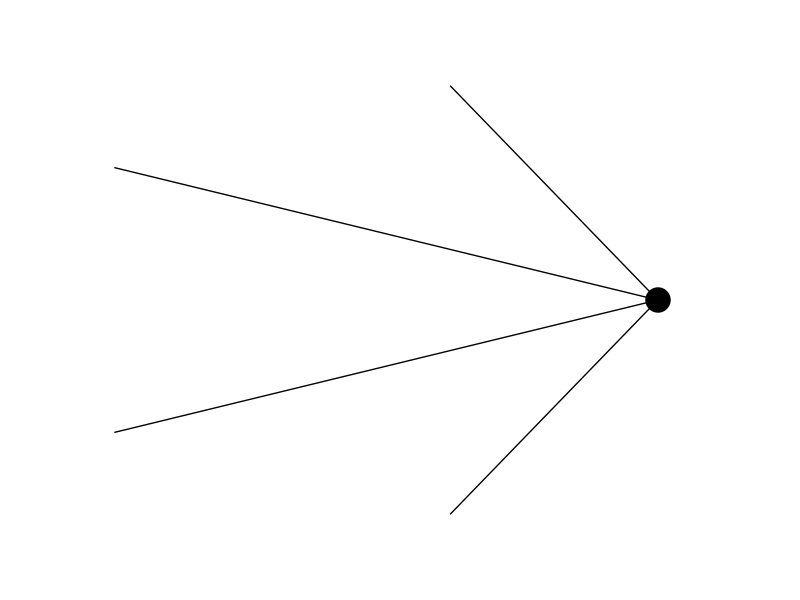
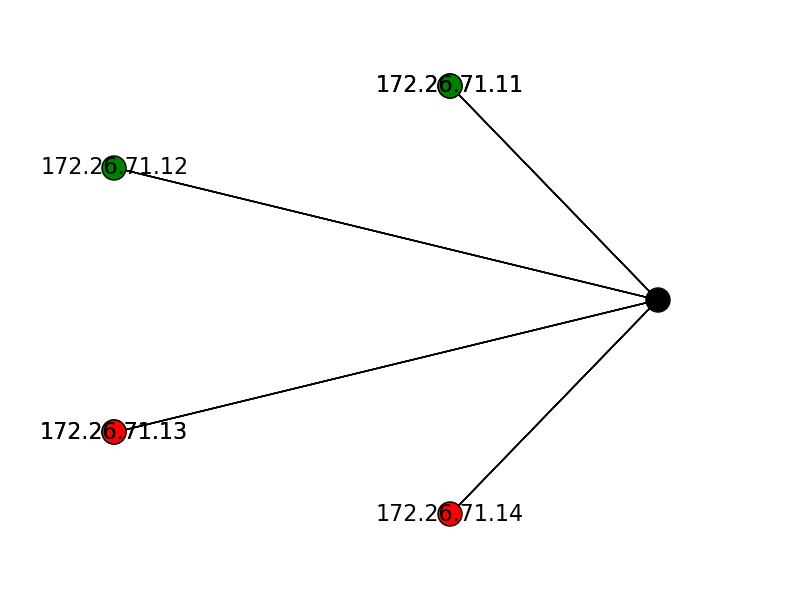
Now have info from db appearing on dashboard

diff --git a/FlaskApp/FlaskApp/templates/main.html b/FlaskApp/FlaskApp/templates/main.html
@@ -22,10 +22,34 @@
       	  setTimeout("timedRefresh(1000)", timeoutP);
       	};
       };
+
+      /*function showData(str) {
+      	if (str == "") {
+      		document.getElementById("txtHint").innerHTML = "";
+      		return;
+      	} else {
+      		if (window.XMLHttpRequest) {
+      			xmlhttp = new XMLHttpRequest();
+      		} else {
+      			xmlhttp = new ActiveXObject("Microsoft.XMLHTTP");
+      		}
+      	    xmlhttp.onreadystatechange = function() {
+      	  	  if (xmlhttp.readyState == 4 && xmlhttp.status == 200) {
+      	  		document.getElementById("txtHint").innerHTML = xmlhttp.responseText;
+      	  	}
+      	  };
+      	  xmlhttp.open("GET", "{{ url_for('static', filename='getdata.php') }}" + '?q=' + str + '?t=' + new Date().getTime(), true);
+      	  xmlhttp.send();
+      	}
+      }*/
     </script>
 
   </head>
   <body onload="JavaScript:timedRefresh(1000);">
   	<canvas id="x" width="800" height="600"></canvas>
+  	<div>
+  	  {% block body %}
+  	  {% endblock %}
+  	</div>
   </body>
 </html>

diff --git a/FlaskApp/FlaskApp/templates/node_data.html b/FlaskApp/FlaskApp/templates/node_data.html
@@ -1,0 +1,22 @@
+{% extends "main.html" %}
+{% block body%}
+    <table style="width:100%">
+     <tr>
+       <th>ID</th>
+       <th>Hostname</th>
+       <th>MAC Address</th>
+       <th>IP Address</th>
+       <th>OS</th>
+       <th>OS Version</th>
+       <th>OS Type</th>
+       <th>OS Accuracy</th>
+     </tr>
+     {% for i in data %}
+       <tr>
+       {% for x in i %}
+         <td>{{x}}</td>
+       {% endfor %}
+       </tr>
+     {% endfor %}
+    </table>
+{% endblock %}

diff --git a/FlaskApp/FlaskApp/templates/getdata.php b/FlaskApp/FlaskApp/templates/getdata.php
@@ -1,0 +1,47 @@
+<?php
+$q = intval($_GET['q']);
+
+$con = mysqli_connect('localhost','root','password','discover')
+if (!$con){
+	die('Could not connect: ' . mysqli_error($con));
+}
+
+#mysqli_select_db($con, "discover");
+$sql="SELECT * FROM nodes WHERE OS = '".$q."'";
+$result = mysqli_query($con,$sql);
+#
+#echo $result;
+
+echo "<table>
+<tr>
+<th>Id</th>
+<th>Hostname</th>
+<th>MAC_Addr</th>
+<th>IP_Addr</th>
+<th>OS</th>
+<th>OS_Vrs</th>
+<th>OS_Type</th>
+<th>OS_Acc</th>
+</tr>";
+echo "</table>"
+if ($result->num_rows > 0){
+	#while($row = mysqli_fetch_array($result)){
+		#echo "<tr>";
+		#echo "<td>" . $row['Id'] . "</td>";
+		#echo "<td>" . $row['Hostname'] . "</td>";
+		#echo "<td>" . $row['MAC_Addr'] . "</td>";
+		#echo "<td>" . $row['IP_Addr'] . "</td>";
+		#echo "<td>" . $row['OS'] . "</td>";
+		#echo "<td>" . $row['OS_Vrs'] . "</td>";
+		#echo "<td>" . $row['OS_Type'] . "</td>";
+		#echo "<td>" . $row['OS_Acc'] . "</td>";
+		#echo "</tr>";
+	#}
+	
+} else {
+	echo "Empty";
+}
+;
+
+mysqli_close($con);
+?>

diff --git a/FlaskApp/FlaskApp/__init__.py b/FlaskApp/FlaskApp/__init__.py
@@ -1,11 +1,33 @@
 from flask import Flask as fl
 from flask import render_template
+import MySQLdb as msql
 
 app = fl(__name__)
 
 @app.route('/')
 def homepage():
-    return render_template("main.html")
+    node_data = display_node_data()
+    return render_template("node_data.html", data=node_data)
+
+#@app.route('/test')
+#def test():
+#    return render_template()
+
+def display_node_data():
+    con = msql.connect(host='localhost', user='root', passwd='password', db='discover')
+    cur = con.cursor()
+    check = "SHOW TABLES LIKE 'nodes'"
+    cur.execute(check)
+    result = cur.fetchone()
+    if result:
+        pass
+    else:
+        cur.execute('CREATE TABLE nodes (Id INTEGER NOT NULL AUTO_INCREMENT,Hostname VARCHAR(30), MAC_Addr VARCHAR(18),IP_Addr VARCHAR(15), OS VARCHAR(10),OS_Vrs VARCHAR(10), OS_Type VARCHAR(30),OS_Acc VARCHAR(3),PRIMARY KEY (Id))')
+    cur.execute('SELECT * from nodes')
+    node_data = cur.fetchall()
+    return node_data
+
+
 
 if __name__ == "__main__":
     app.debug = True

diff --git a/FlaskApp/FlaskApp/static/getdata.php b/FlaskApp/FlaskApp/static/getdata.php
@@ -1,0 +1,39 @@
+<?php
+$q = intval($_GET['q']);
+
+$con = mysqli_connect('localhost','root','password','discover')
+if (!$con){
+	die('Could not connect: ' . mysqli_error($con));
+}
+
+#mysqli_select_db($con, "discover");
+$sql="SELECT * FROM nodes WHERE OS_Type = '".$q."'";
+$result = mysqli_query($con,$sql)
+
+echo "<table>
+<tr>
+<th>Id</th>
+<th>Hostname</th>
+<th>MAC_Addr</th>
+<th>IP_Addr</th>
+<th>OS</th>
+<th>OS_Vrs</th>
+<th>OS_Type</th>
+<th>OS_Acc</th>
+</tr>";
+
+while($row = mysqli_fetch_array($result)){
+	echo "<tr>";
+	echo "<td>" . $row['Id'] . "</td>";
+	echo "<td>" . $row['Hostname'] . "</td>";
+	echo "<td>" . $row['MAC_Addr'] . "</td>";
+	echo "<td>" . $row['IP_Addr'] . "</td>";
+	echo "<td>" . $row['OS'] . "</td>";
+	echo "<td>" . $row['OS_Vrs'] . "</td>";
+	echo "<td>" . $row['OS_Type'] . "</td>";
+	echo "<td>" . $row['OS_Acc'] . "</td>";
+	echo "</tr>";
+}
+echo "</table>";
+mysqli_close($con);
+?>

diff --git a/lense.py b/lense.py
@@ -35,7 +35,7 @@ def setup_list(G_info, l_ip, d_ip):
 
 	return (live_list, live_labels, dead_list, dead_labels, subnet_list)
 
-def draw_map(sorted_dict):
+def draw_map(G, posi, sorted_dict):
 	complete_dict = sorted_dict
 	live_labels = {}
 	dead_labels = {}
@@ -103,5 +103,6 @@ def gen_lense(node_active, node_dead, ips, dead_ips):
 	posi = None
 	posi = nx.circular_layout(G) if posi is None else posi
 	nx.draw_circular(G, nodelist=subnet_list, font_size=16, node_color="black",with_labels=False)
+	draw_map(G, posi, complete_dict)
 	plt.savefig('/var/www/FlaskApp/FlaskApp/static/img/map.png')
 	#plt.show(block=False)

diff --git a/oracle.py b/oracle.py
@@ -5,7 +5,7 @@ import socket
 import netifaces as net
 import argparse
 import lense
-#import nmap_recon as recon
+import nmap_recon as recon
 
 parser = argparse.ArgumentParser()
 parser.add_argument("range_begin")
@@ -54,7 +54,7 @@ for i in range(5):
 	#print "From " + str(len(addresses)) + " possible addresses, " + str(liveCounter) + " are active."
 	#	print active_addr[key]
 	print active_addr
-	#recon.recon_address(active_addr)
+	recon.recon_address(active_addr)
 	#print deadCounter
 	#print liveCounter
 	lense.gen_lense(liveCounter, deadCounter, active_addr, dead_addr)

diff --git a/nmap_recon.py b/nmap_recon.py
@@ -55,4 +55,4 @@ def recon_address(active_addresses):
         con.commit()
 
 this = {1: '172.26.71.11', 2: '172.26.71.12'}
-recon_address(this)
+#recon_address(this)
